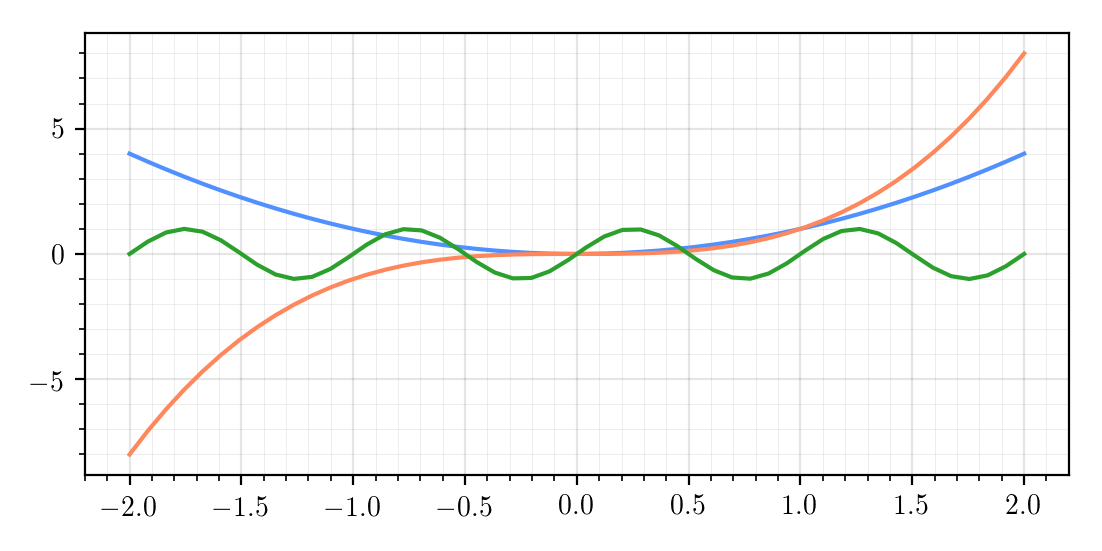
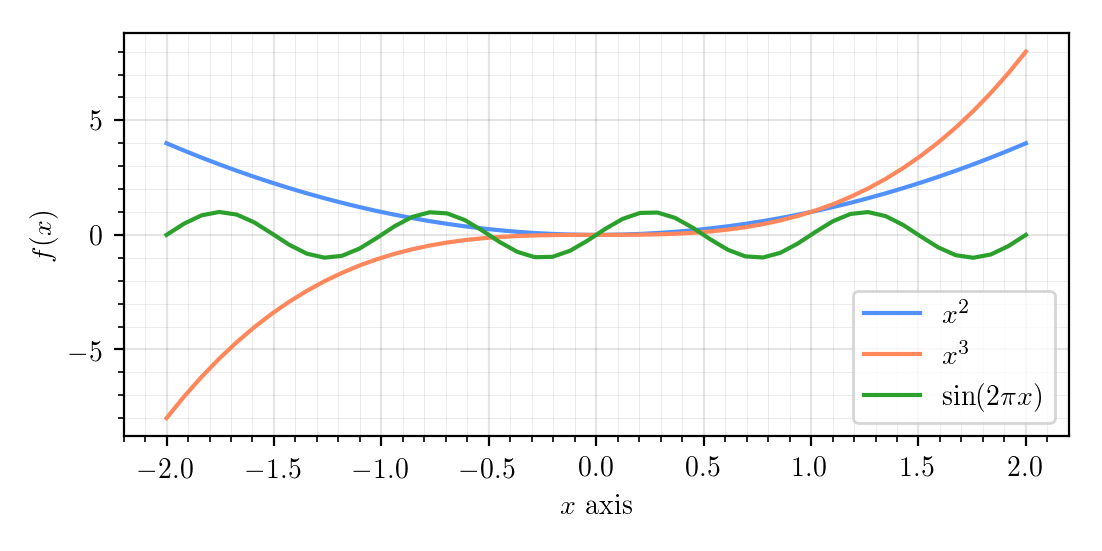
Added labels and legend

diff --git a/doc/usage_example/usage_example.py b/doc/usage_example/usage_example.py
@@ -4,8 +4,11 @@ import alfplotlib as apl # This automatically loads the "alf style" for the plot
 
 x = np.linspace(-2,2)
 fig, ax = plt.subplots()
-ax.plot(x, x**2)
-ax.plot(x,x**3)
-ax.plot(x,np.sin(2*np.pi*x))
+ax.plot(x, x**2, label="$x^2$")
+ax.plot(x,x**3, label="$x^3$")
+ax.plot(x,np.sin(2*np.pi*x), label="$\sin (2 \pi x)$")
+ax.set_xlabel("$x$ axis")
+ax.set_ylabel("$f(x)$")
+ax.legend()
 
 apl.save_all_figs(mkdir='my_figs') # Save all the figs at once.
